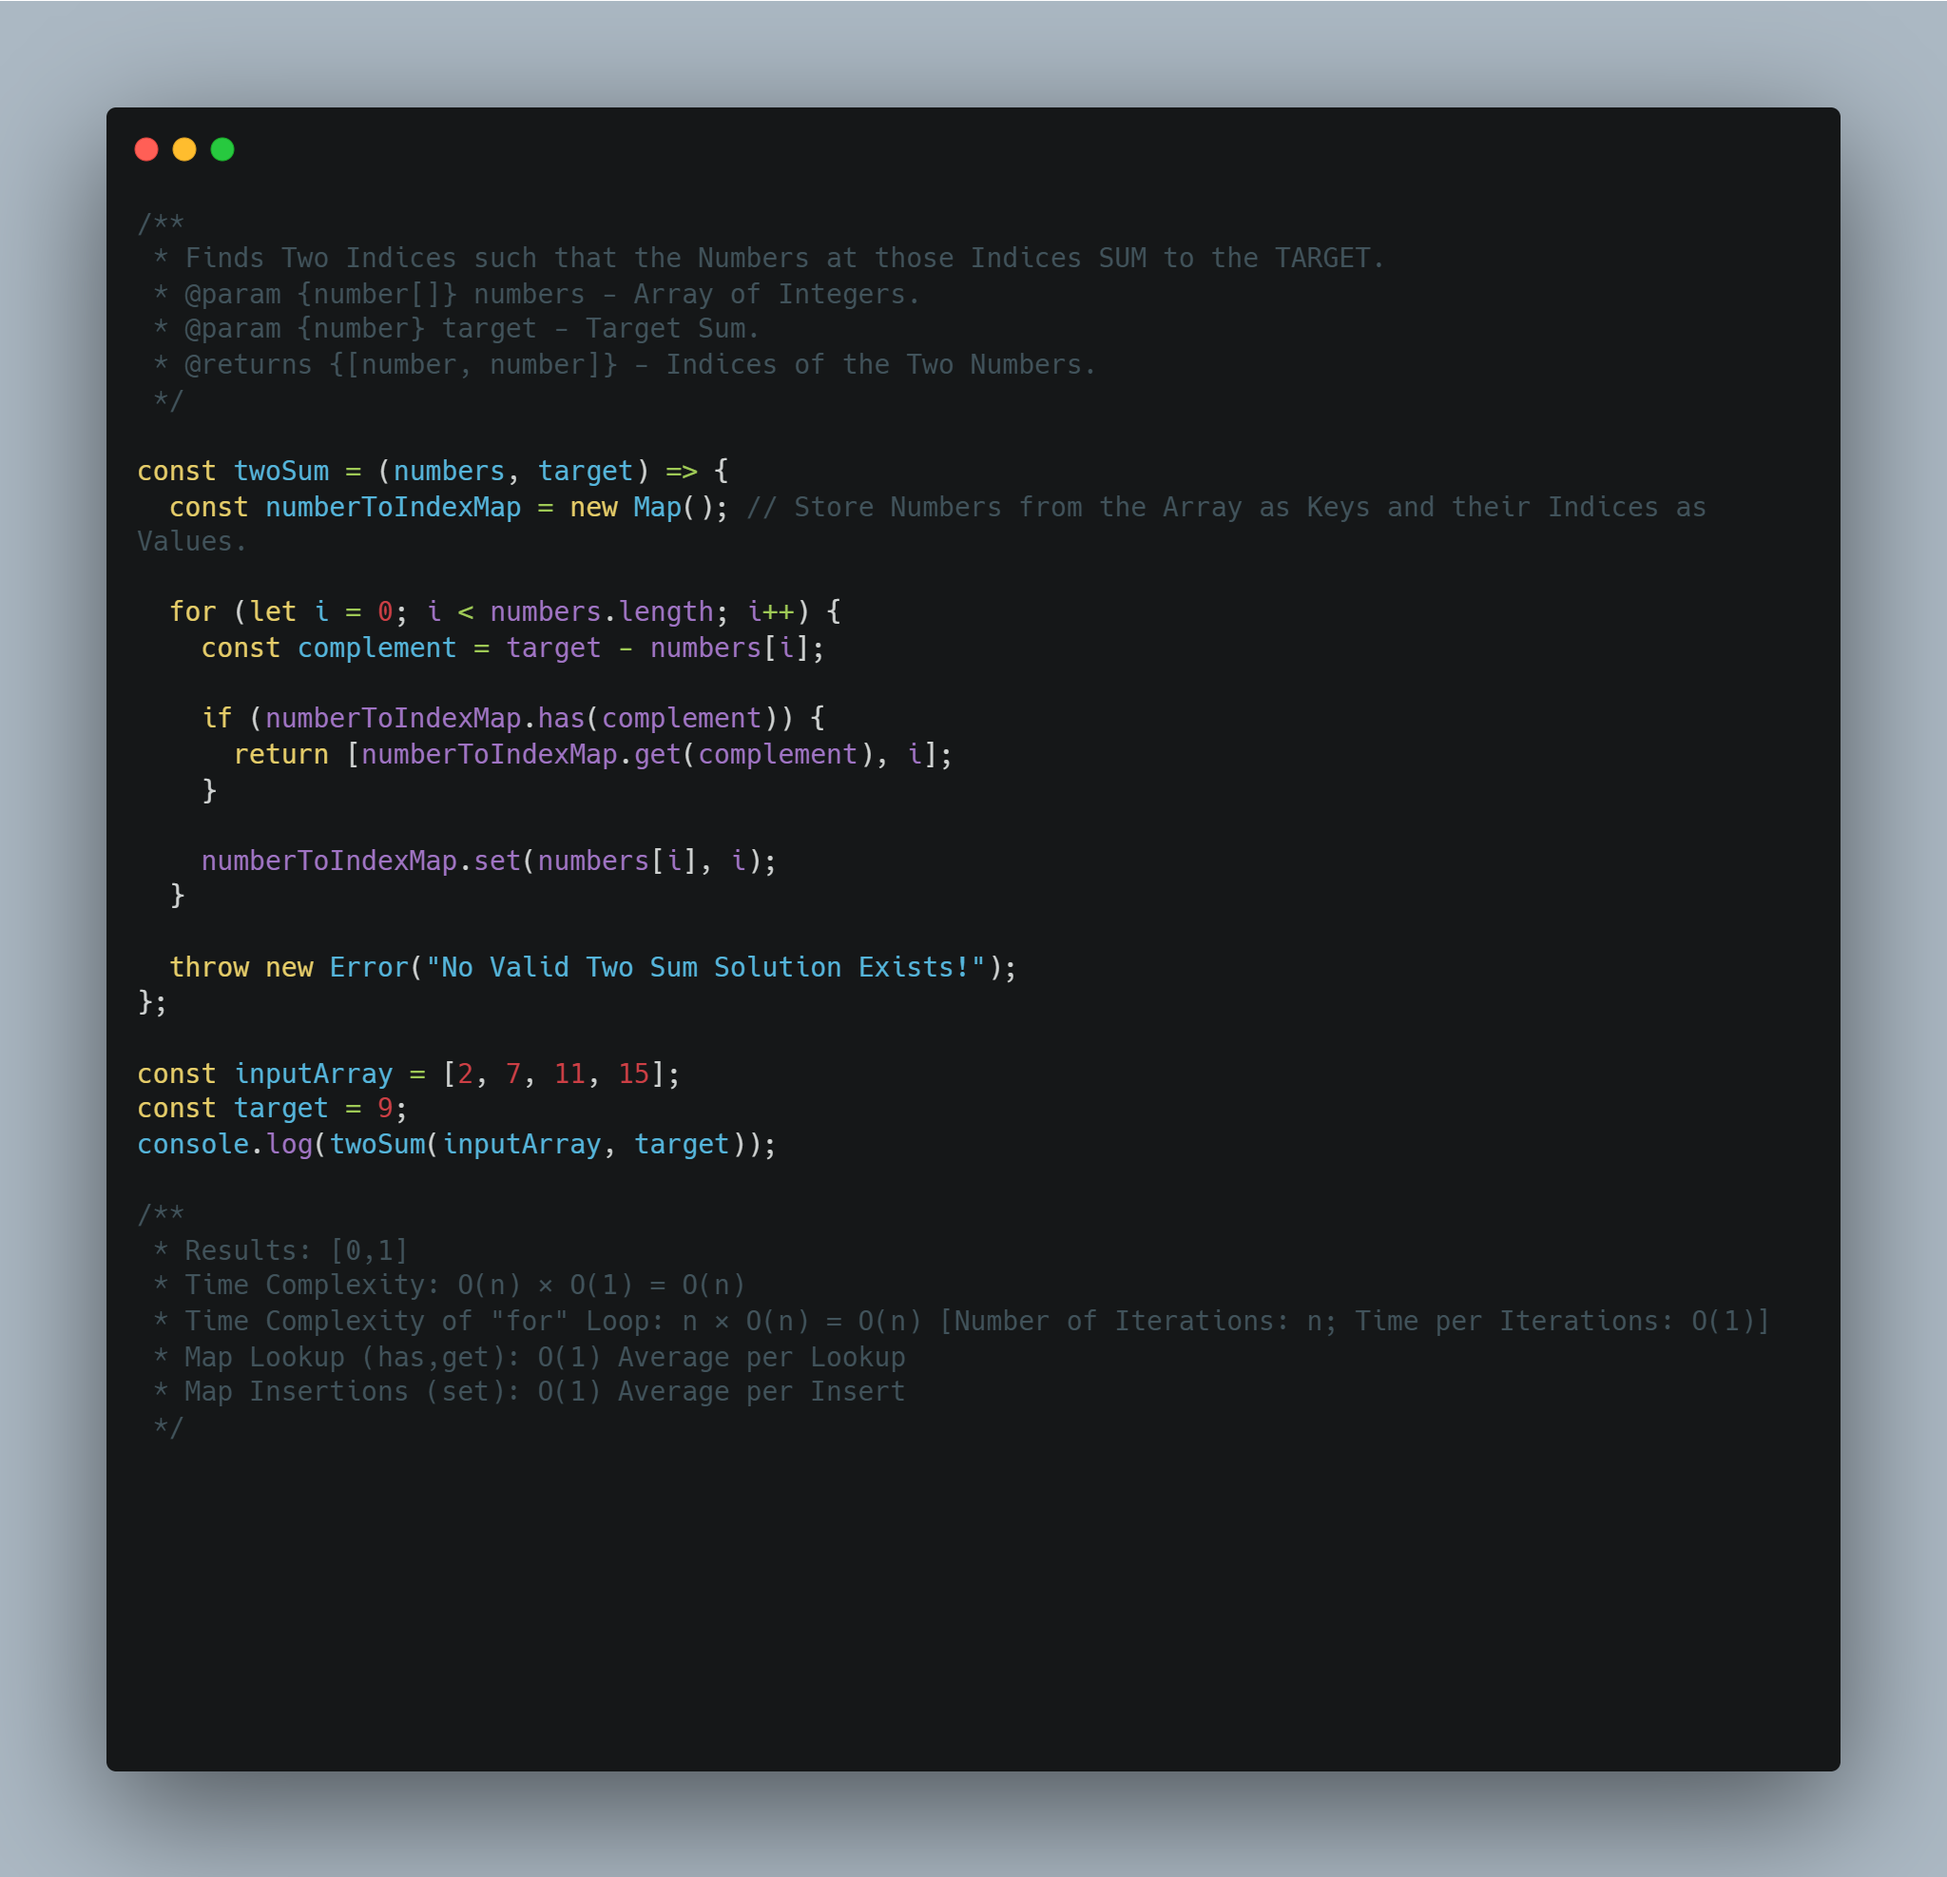
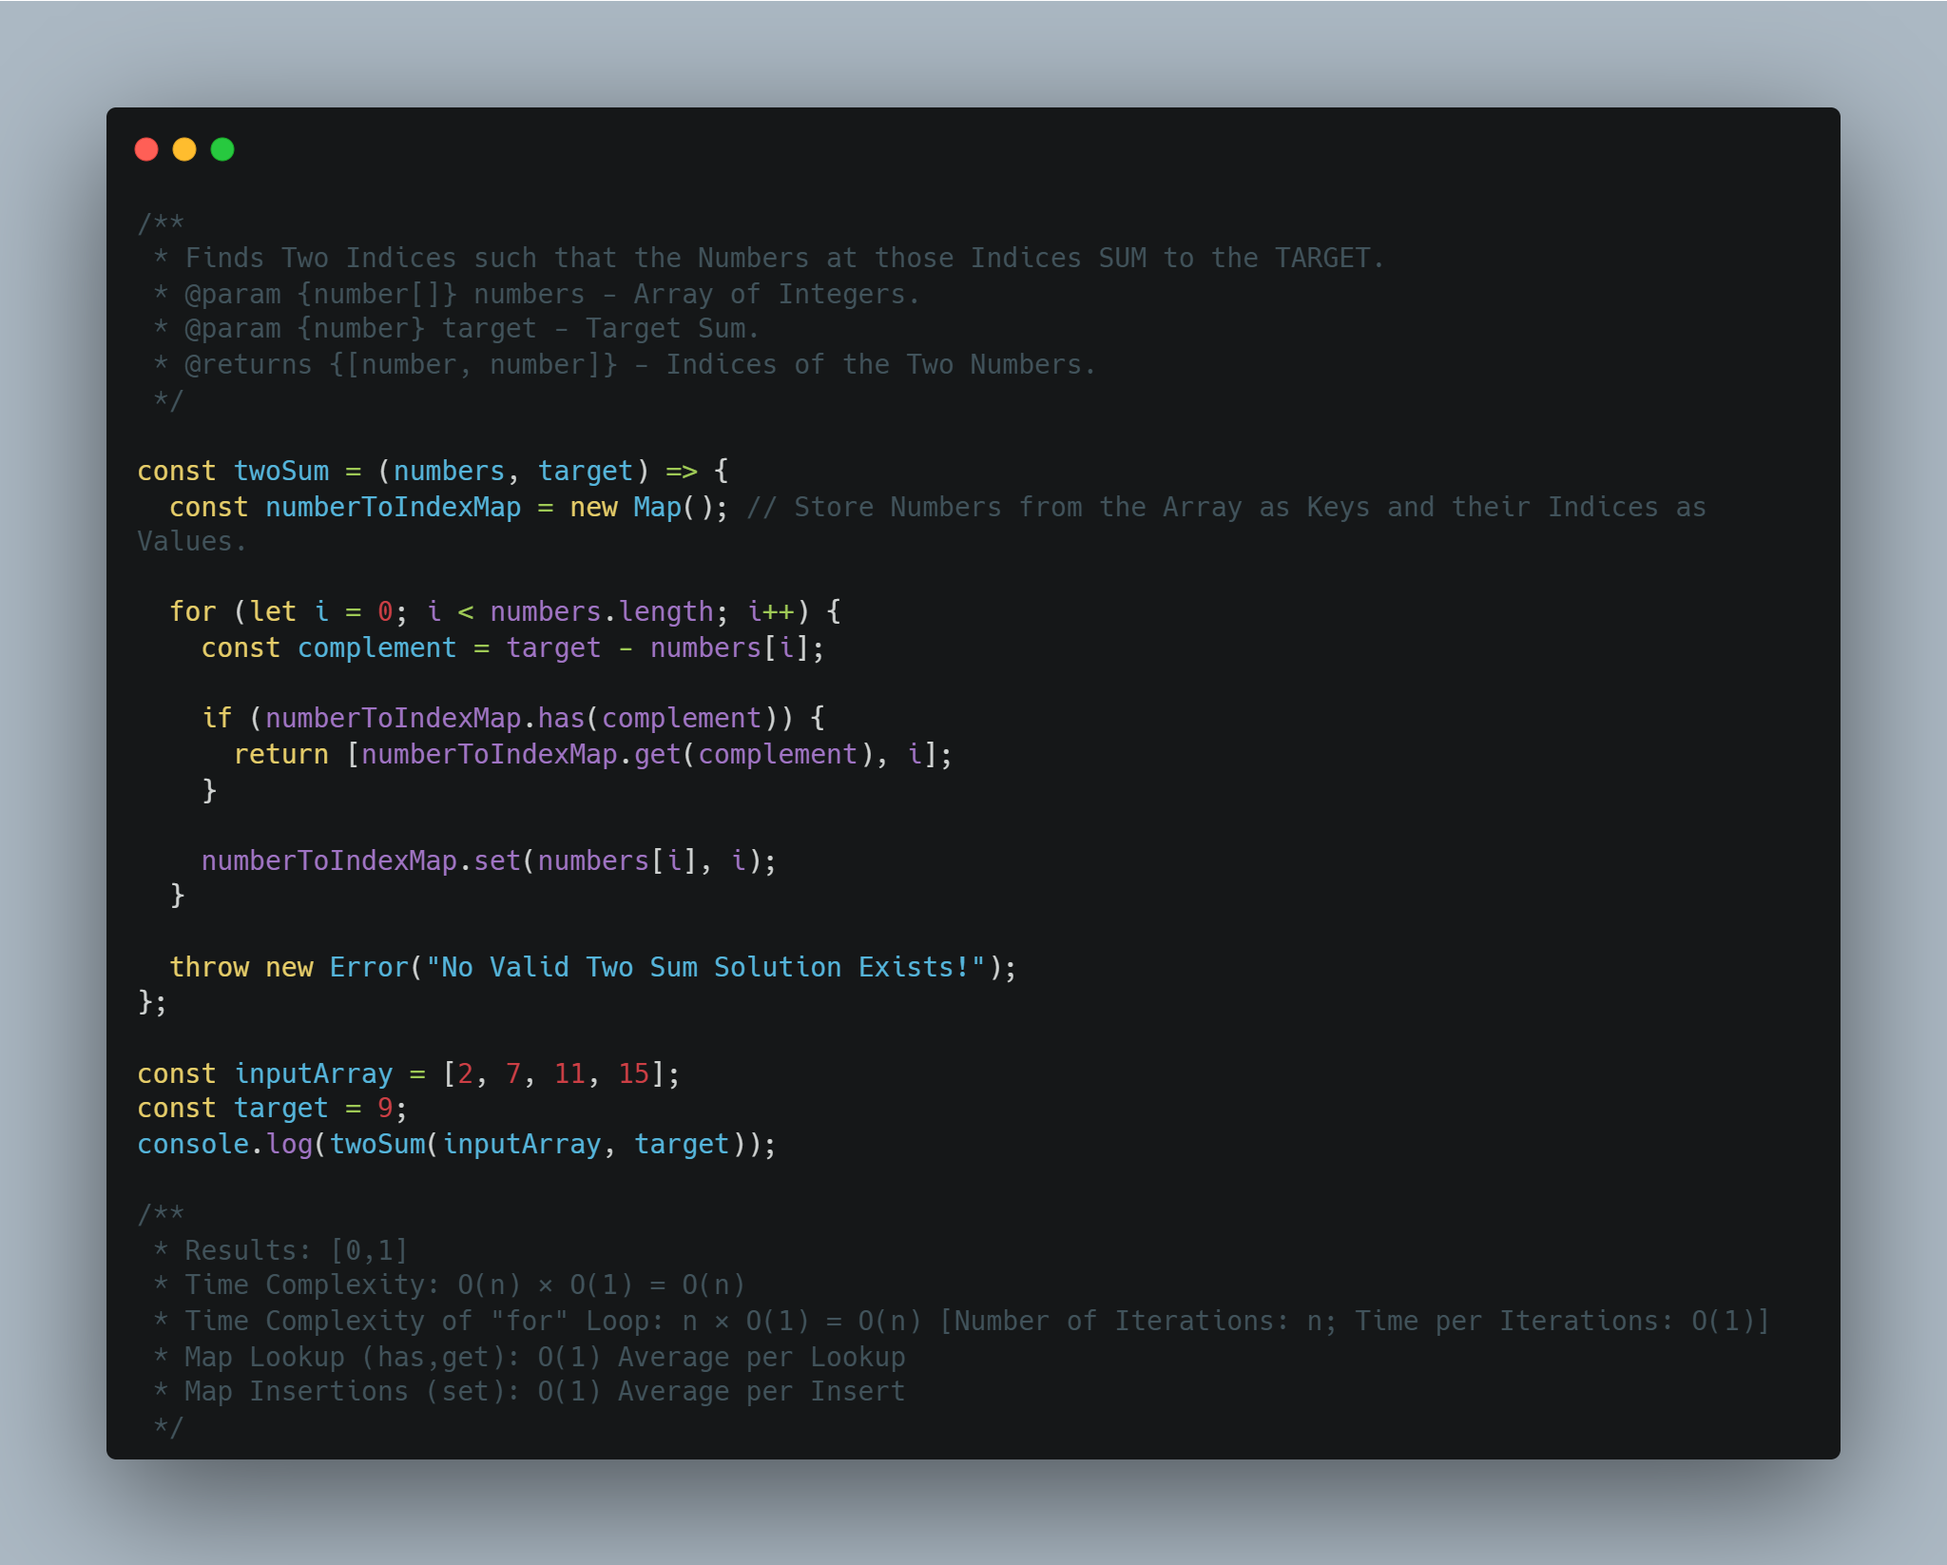
:memo: Fix - Leetcode: Two Sum (Documentation)

diff --git a/leetcode/interview-questions/easy/array/two-sum/two-sum.js b/leetcode/interview-questions/easy/array/two-sum/two-sum.js
@@ -28,7 +28,7 @@ console.log(twoSum(inputArray, target));
 /**
  * Results: [0,1]
  * Time Complexity: O(n) × O(1) = O(n)
- * Time Complexity of "for" Loop: n × O(n) = O(n) [Number of Iterations: n; Time per Iterations: O(1)]
+ * Time Complexity of "for" Loop: n × O(1) = O(n) [Number of Iterations: n; Time per Iterations: O(1)]
  * Map Lookup (has,get): O(1) Average per Lookup
  * Map Insertions (set): O(1) Average per Insert
  */

diff --git a/leetcode/the_blind_75-leetcode_challenge/two-sum/two-sum.js b/leetcode/the_blind_75-leetcode_challenge/two-sum/two-sum.js
@@ -28,7 +28,7 @@ console.log(twoSum(inputArray, target));
 /**
  * Results: [0,1]
  * Time Complexity: O(n) × O(1) = O(n)
- * Time Complexity of "for" Loop: n × O(n) = O(n) [Number of Iterations: n; Time per Iterations: O(1)]
+ * Time Complexity of "for" Loop: n × O(1) = O(n) [Number of Iterations: n; Time per Iterations: O(1)]
  * Map Lookup (has,get): O(1) Average per Lookup
  * Map Insertions (set): O(1) Average per Insert
  */
